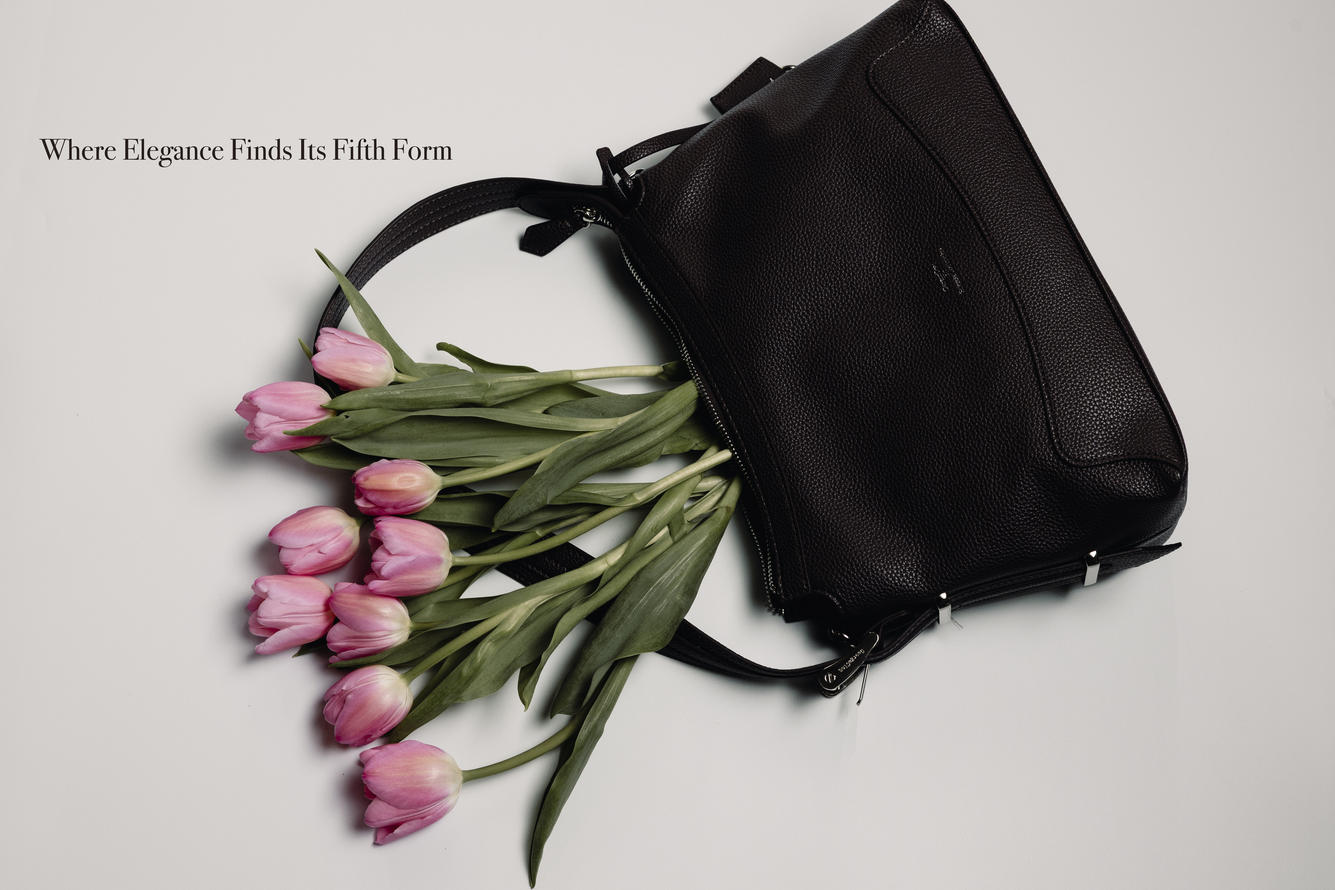
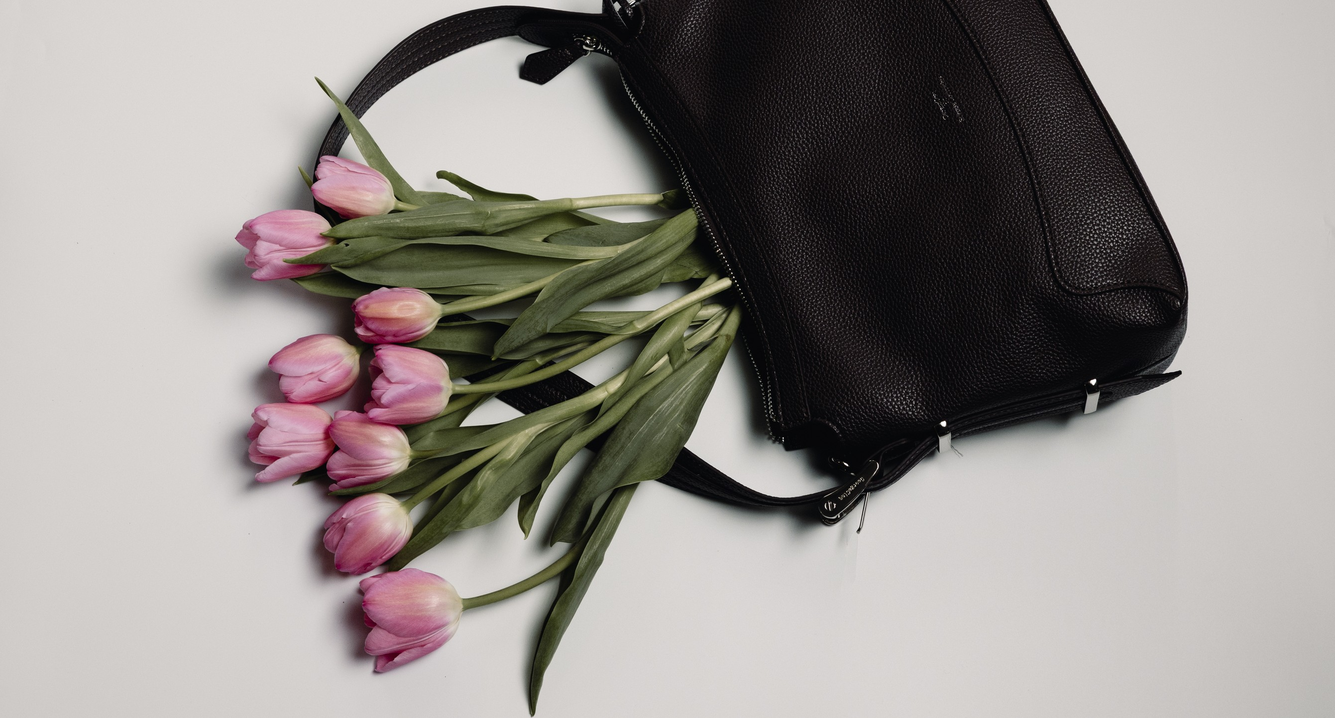
メニューバー修正

diff --git a/brand/georgecinq.html b/brand/georgecinq.html
@@ -82,7 +82,12 @@
     </header>
 
     <section class="h-screen relative flex items-center justify-center overflow-hidden bg-neutral-100">
-        <img src="/assets/images/0002.png" alt="GeorgeCinq Hero" class="absolute w-full h-full object-cover">
+        <picture class="absolute inset-0 w-full h-full">
+            <source media="(max-width: 767px)" srcset="/assets/images/0012.jpg">
+            
+            <img src="/assets/images/0013.jpg" alt="GeorgeCinq Hero" class="w-full h-full object-cover">
+        </picture>
+        
         <div class="absolute inset-0 bg-black/20"></div>
         <div class="relative z-10 text-center text-white px-4 w-full">
             <h1 class="font-serif-en text-3xl md:text-7xl italic font-light tracking-widest uppercase mb-4">
@@ -166,15 +171,20 @@
         </div>
     </footer>
     <div id="mobileMenu" class="fixed inset-0 bg-black/95 z-[55] translate-x-full transition-transform duration-500 md:hidden flex items-center justify-center">
-        <nav class="flex flex-col items-center space-y-12 text-white text-[10px] tracking-[0.4em] uppercase font-serif-en">
-            <a href="/index.html#brands" onclick="toggleMenu()">Brands</a>
-            <a href="/spacerental/index.html" onclick="toggleMenu()">SPASE RENTAL</a>
-            <a href="/news/index.html" onclick="toggleMenu()">News</a>
-            <a href="/company/index.html" onclick="toggleMenu()">company</a>
-            <a href="/contact.html" onclick="toggleMenu()">Contact</a>
-            <div class="pt-8">
-                <a href="/index.html" onclick="toggleMenu()" class="text-neutral-500">Home</a>
-            </div>
+    
+    <button onclick="toggleMenu()" class="absolute top-8 right-6 w-10 h-10 flex items-center justify-center focus:outline-none z-[60]">
+    <span class="absolute w-6 h-[1px] bg-white rotate-45"></span>
+    <span class="absolute w-6 h-[1px] bg-white -rotate-45"></span>
+    </button>
+    <nav class="flex flex-col items-center space-y-12 text-white text-[10px] tracking-[0.4em] uppercase font-serif-en">
+        <a href="#brands" onclick="toggleMenu()">Brands</a>
+        <a href="/spacerental/index.html" onclick="toggleMenu()">SPASE RENTAL</a>
+        <a href="/news/index.html" onclick="toggleMenu()">News</a>
+        <a href="/company/index.html" onclick="toggleMenu()">company</a>
+        <a href="/contact.html" onclick="toggleMenu()">Contact</a>
+        <div class="pt-8">
+            <a href="/index.html" onclick="toggleMenu()" class="text-neutral-500">Home</a>
+        </div>
         </nav>
     </div>
 <script>

diff --git a/contact.html b/contact.html
@@ -168,18 +168,21 @@
         }
     </script>
     <div id="mobileMenu" class="fixed inset-0 bg-black/95 z-[55] translate-x-full transition-transform duration-500 md:hidden flex items-center justify-center">
-        <nav class="flex flex-col items-center space-y-12 text-white text-[10px] tracking-[0.4em] uppercase font-serif-en">
-            <a href="/index.html#brands" onclick="toggleMenu()">Brands</a>
-            <a href="/spacerental/index.html" onclick="toggleMenu()">SPASE RENTAL</a>
-            <a href="/news/index.html" onclick="toggleMenu()">News</a>
-            <a href="/company/index.html" onclick="toggleMenu()">company</a>
-            <a href="/contact.html" onclick="toggleMenu()">Contact</a>
-            <div class="pt-8">
-                <a href="/index.html" onclick="toggleMenu()" class="text-neutral-500">Home</a>
-            <div class="pt-8">
-                <a href="/index.html" onclick="toggleMenu()" class="text-neutral-500">Home</a>
-            </div>
-        </nav>
+    
+    <button onclick="toggleMenu()" class="absolute top-8 right-6 w-10 h-10 flex items-center justify-center focus:outline-none z-[60]">
+    <span class="absolute w-6 h-[1px] bg-white rotate-45"></span>
+    <span class="absolute w-6 h-[1px] bg-white -rotate-45"></span>
+    </button>
+    <nav class="flex flex-col items-center space-y-12 text-white text-[10px] tracking-[0.4em] uppercase font-serif-en">
+        <a href="#brands" onclick="toggleMenu()">Brands</a>
+        <a href="/spacerental/index.html" onclick="toggleMenu()">SPASE RENTAL</a>
+        <a href="/news/index.html" onclick="toggleMenu()">News</a>
+        <a href="/company/index.html" onclick="toggleMenu()">company</a>
+        <a href="/contact.html" onclick="toggleMenu()">Contact</a>
+        <div class="pt-8">
+            <a href="/index.html" onclick="toggleMenu()" class="text-neutral-500">Home</a>
+        </div>
+    </nav>
     </div>
 </body>
 </html>

diff --git a/spacerental/index.html b/spacerental/index.html
@@ -73,16 +73,21 @@
 
     <!-- Mobile Menu -->
     <div id="mobileMenu" class="fixed inset-0 bg-black/95 z-[55] translate-x-full transition-transform duration-500 md:hidden flex items-center justify-center">
-        <nav class="flex flex-col items-center space-y-12 text-white text-[10px] tracking-[0.4em] uppercase font-serif-en">
-            <a href="/index.html#brands" onclick="toggleMenu()">Brands</a>
-            <a href="/space/index.html" onclick="toggleMenu()" class=>Space</a>
-            <a href="/news/index.html" onclick="toggleMenu()">News</a>
-            <a href="/company/index.html" onclick="toggleMenu()">Company</a>
-            <a href="/contact.html" onclick="toggleMenu()">Contact</a>
-            <div class="pt-8">
-                <a href="/index.html" onclick="toggleMenu()" class="text-neutral-500">Home</a>
-            </div>
-        </nav>
+    
+    <button onclick="toggleMenu()" class="absolute top-8 right-6 w-10 h-10 flex items-center justify-center focus:outline-none z-[60]">
+    <span class="absolute w-6 h-[1px] bg-white rotate-45"></span>
+    <span class="absolute w-6 h-[1px] bg-white -rotate-45"></span>
+    </button>
+    <nav class="flex flex-col items-center space-y-12 text-white text-[10px] tracking-[0.4em] uppercase font-serif-en">
+        <a href="#brands" onclick="toggleMenu()">Brands</a>
+        <a href="/spacerental/index.html" onclick="toggleMenu()">SPASE RENTAL</a>
+        <a href="/news/index.html" onclick="toggleMenu()">News</a>
+        <a href="/company/index.html" onclick="toggleMenu()">company</a>
+        <a href="/contact.html" onclick="toggleMenu()">Contact</a>
+        <div class="pt-8">
+            <a href="/index.html" onclick="toggleMenu()" class="text-neutral-500">Home</a>
+        </div>
+    </nav>
     </div>
 
     <!-- Hero Section -->

diff --git a/company/index.html b/company/index.html
@@ -126,15 +126,20 @@
     }
     </script>
     <div id="mobileMenu" class="fixed inset-0 bg-black/95 z-[55] translate-x-full transition-transform duration-500 md:hidden flex items-center justify-center">
-        <nav class="flex flex-col items-center space-y-12 text-white text-[10px] tracking-[0.4em] uppercase font-serif-en">
-            <a href="/index.html#brands" onclick="toggleMenu()">Brands</a>
-            <a href="/spacerental/index.html" onclick="toggleMenu()">SPASE RENTAL</a>
-            <a href="/news/index.html" onclick="toggleMenu()">News</a>
-            <a href="/company/index.html" onclick="toggleMenu()">company</a>
-            <a href="/contact.html" onclick="toggleMenu()">Contact</a>
-            <div class="pt-8">
-                <a href="/index.html" onclick="toggleMenu()" class="text-neutral-500">Home</a>
-            </div>
+    
+    <button onclick="toggleMenu()" class="absolute top-8 right-6 w-10 h-10 flex items-center justify-center focus:outline-none z-[60]">
+    <span class="absolute w-6 h-[1px] bg-white rotate-45"></span>
+    <span class="absolute w-6 h-[1px] bg-white -rotate-45"></span>
+    </button>
+    <nav class="flex flex-col items-center space-y-12 text-white text-[10px] tracking-[0.4em] uppercase font-serif-en">
+        <a href="#brands" onclick="toggleMenu()">Brands</a>
+        <a href="/spacerental/index.html" onclick="toggleMenu()">SPASE RENTAL</a>
+        <a href="/news/index.html" onclick="toggleMenu()">News</a>
+        <a href="/company/index.html" onclick="toggleMenu()">company</a>
+        <a href="/contact.html" onclick="toggleMenu()">Contact</a>
+        <div class="pt-8">
+            <a href="/index.html" onclick="toggleMenu()" class="text-neutral-500">Home</a>
+        </div>
         </nav>
     </div>
 </body>

diff --git a/news/index.html b/news/index.html
@@ -139,14 +139,20 @@
     }
     </script>
     <div id="mobileMenu" class="fixed inset-0 bg-black/95 z-[55] translate-x-full transition-transform duration-500 md:hidden flex items-center justify-center">
-        <nav class="flex flex-col items-center space-y-12 text-white text-[10px] tracking-[0.4em] uppercase font-serif-en">
-            <a href="/index.html#brands" onclick="toggleMenu()">Brands</a>
-            <a href="/news/index.html" onclick="toggleMenu()">News</a>
-            <a href="/company/index.html" onclick="toggleMenu()">company</a>
-            <a href="/contact.html" onclick="toggleMenu()">Contact</a>
-            <div class="pt-8">
-                <a href="/index.html" onclick="toggleMenu()" class="text-neutral-500">Home</a>
-            </div>
+    
+    <button onclick="toggleMenu()" class="absolute top-8 right-6 w-10 h-10 flex items-center justify-center focus:outline-none z-[60]">
+    <span class="absolute w-6 h-[1px] bg-white rotate-45"></span>
+    <span class="absolute w-6 h-[1px] bg-white -rotate-45"></span>
+    </button>
+    <nav class="flex flex-col items-center space-y-12 text-white text-[10px] tracking-[0.4em] uppercase font-serif-en">
+        <a href="#brands" onclick="toggleMenu()">Brands</a>
+        <a href="/spacerental/index.html" onclick="toggleMenu()">SPASE RENTAL</a>
+        <a href="/news/index.html" onclick="toggleMenu()">News</a>
+        <a href="/company/index.html" onclick="toggleMenu()">company</a>
+        <a href="/contact.html" onclick="toggleMenu()">Contact</a>
+        <div class="pt-8">
+            <a href="/index.html" onclick="toggleMenu()" class="text-neutral-500">Home</a>
+        </div>
         </nav>
     </div>
 </body>

diff --git a/index.html b/index.html
@@ -204,6 +204,11 @@
     }
     </script>
     <div id="mobileMenu" class="fixed inset-0 bg-black/95 z-[55] translate-x-full transition-transform duration-500 md:hidden flex items-center justify-center">
+    
+    <button onclick="toggleMenu()" class="absolute top-8 right-6 w-10 h-10 flex items-center justify-center focus:outline-none z-[60]">
+    <span class="absolute w-6 h-[1px] bg-white rotate-45"></span>
+    <span class="absolute w-6 h-[1px] bg-white -rotate-45"></span>
+    </button>
     <nav class="flex flex-col items-center space-y-12 text-white text-[10px] tracking-[0.4em] uppercase font-serif-en">
         <a href="#brands" onclick="toggleMenu()">Brands</a>
         <a href="/spacerental/index.html" onclick="toggleMenu()">SPASE RENTAL</a>
